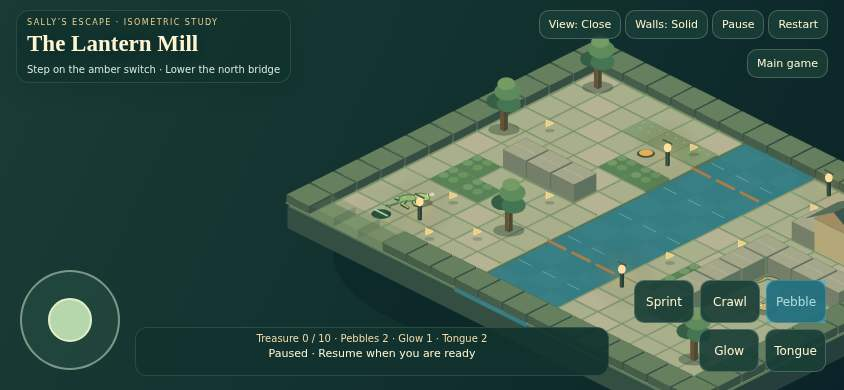
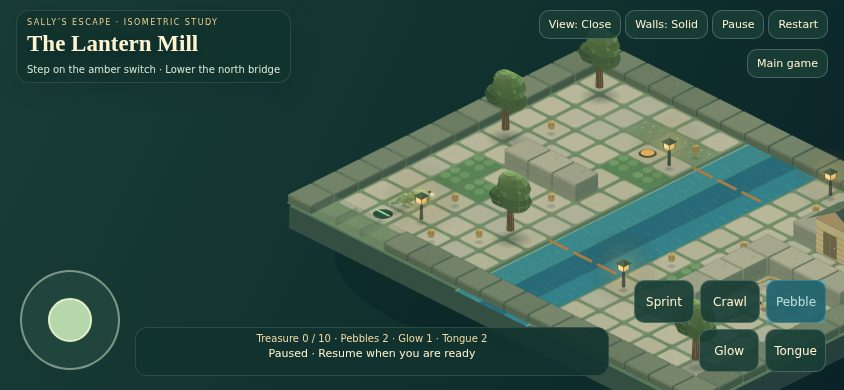
Refresh screenshots with the volumetric creature and material art pass

diff --git a/docs/ISOMETRIC-EXAMPLE.md b/docs/ISOMETRIC-EXAMPLE.md
@@ -32,7 +32,7 @@ Only the example page loads its model/renderer/CSS. Campaign renderers, controls
 
 `node scripts/smoke-isometric-browser.cjs` runs real Chrome against the standalone server: desktop/mobile screenshots, real keyboard/touch input, finite tool spending, Gamepad API switching, pause, reduced motion and replay of the all-treasure win in the browser engine. CI also retains the complete game test/browser and image checks.
 
-Screenshots below are actual Chrome captures of the playable page from the refined creature/material build, including the all-treasure replay. They are not concept illustrations. Desktop captures are 1440×960; the touch capture is 844×390. The page is paused during still captures to keep the positions reproducible.
+Screenshots below are actual Chrome captures of the playable page at refined creature/material commit `f981421`, including the all-treasure replay. They are not concept illustrations. Desktop captures are 1440×960; the touch capture is 844×390. The page is paused during still captures to keep the positions reproducible.
 
 ### Whole level
 ![Isometric mill garden, river and closed bridges](screenshots/isometric/iso-whole-desktop.jpg)
